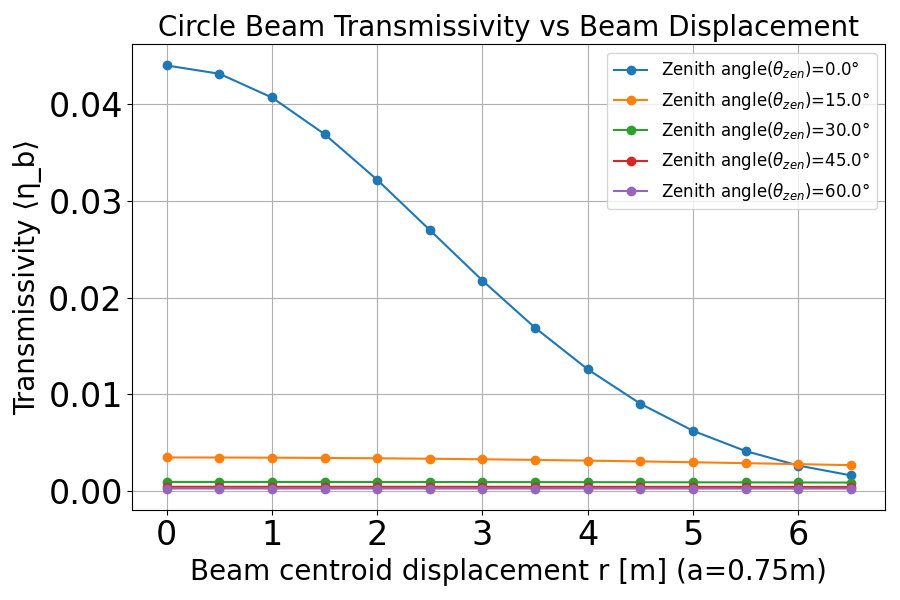
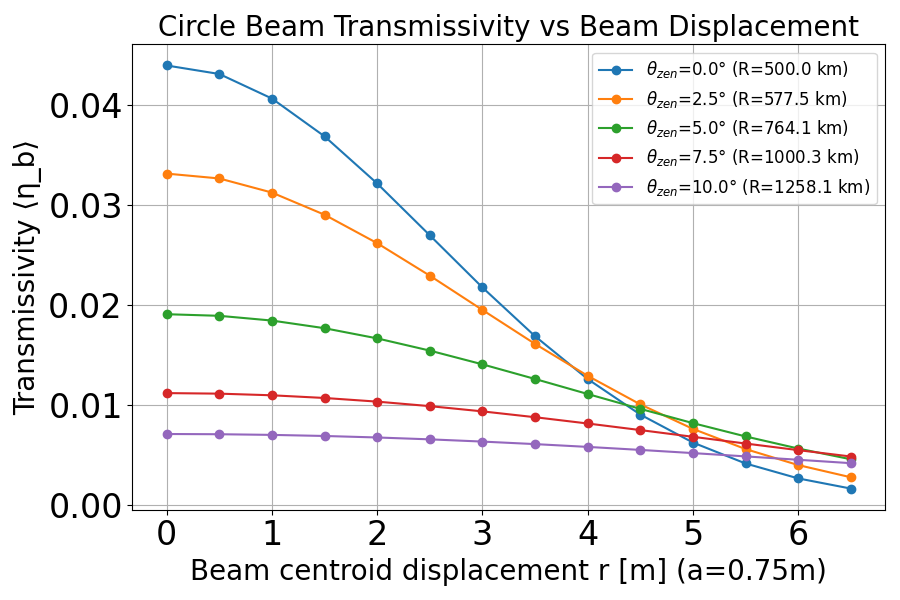
simulate transmittance for pointing

diff --git a/BB84/SimulationResult/Circle_beam/Pointing/transmissivity_b_displacement.py b/BB84/SimulationResult/Circle_beam/Pointing/transmissivity_b_displacement.py
@@ -4,7 +4,7 @@ import os, sys
 import numpy as np
 simulation_path = os.path.abspath(os.path.join(os.path.dirname(__file__), '../../../', 'Model'))
 sys.path.append(simulation_path)
-from circle_beam_transmissivity import transmissivity_etab, beam_waist, to_decimal_string
+from circle_beam_transmissivity import transmissivity_etab, beam_waist, satellite_ground_distance
 
 
 a = 0.75              # Aparture radius
@@ -23,9 +23,10 @@ def main():
     print("===============================")
     print(f'Aperture radius (Receiver): {a} m')
 
+
     # θ_pの範囲（ラジアン）
     theta_min = math.radians(0)
-    theta_max = math.radians(60)
+    theta_max = math.radians(10)
     theta_list = np.linspace(theta_min, theta_max, 5)  # プロットする角度数（5本）
 
     plt.figure(figsize=(9, 6))
@@ -33,6 +34,8 @@ def main():
     for theta_rad in theta_list:
         # 角度→時間へ
         t = theta_rad / omega
+        # LoS distance
+        R_t = satellite_ground_distance(h_s, t)
         # ビームウエスト計算
         waist = beam_waist(h_s, t)
         # 各rでの eta_b 計算
@@ -41,7 +44,7 @@ def main():
         theta_deg = math.degrees(theta_rad)
 
         # プロット
-        plt.plot(r, eta_b, marker='o', label=fr'Zenith angle($\theta_{{zen}}$)={theta_deg:.1f}°')
+        plt.plot(r, eta_b, marker='o', label=fr'$\theta_{{zen}}$={theta_deg:.1f}° (R={R_t/1e3:.1f} km)')
 
     print("===============================\n")
 
